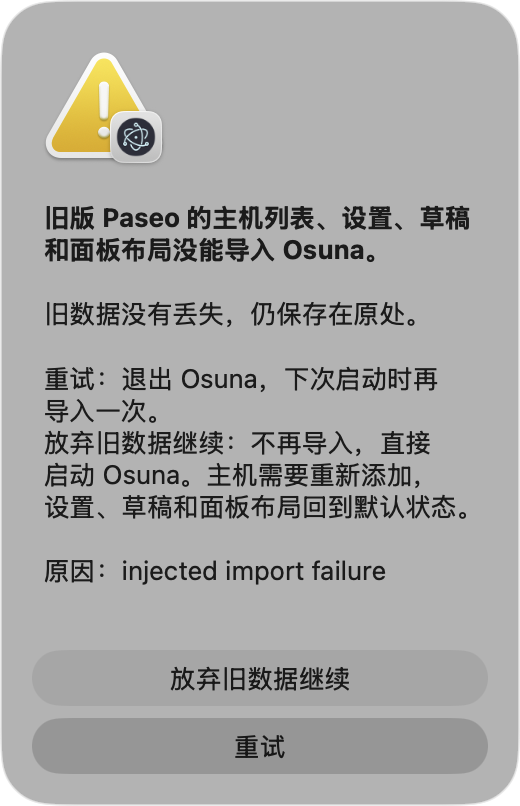
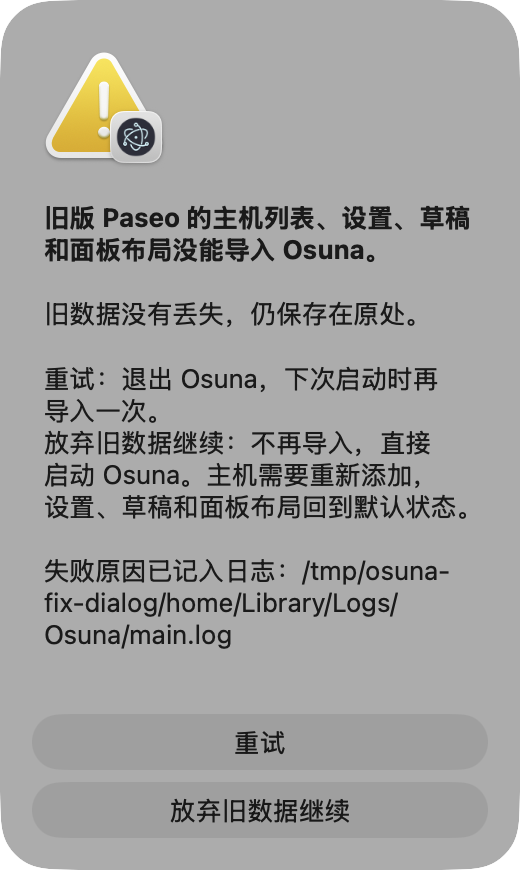
fix(desktop): 导入失败对话框「重试」排首位并为默认，原因只进日志 [V(c)3][SB-2][SB-3][SB-4][SA-3]
- 对话框：把「重试」同时设成取消键会让 macOS 把它排到最后并去掉默认高亮，所以两个按钮都不当
  取消键；没点任何按钮就关掉对话框时按「重试」处理。不设 cancelId 不行：Electron 会自己挑
  「放弃旧数据继续」当取消键
- 界面文案与调试串分开：英文的失败原因在弹框之前写进日志，对话框只用中文告诉用户日志在哪
- page-scripts.ts 的导出脚本与 e2e 里的期望值构造拆成具名小函数，嵌套不超过三层
- snapshot.ts 的内联对象数组类型命名
- 安卓工作流与 docs/android.md 里"先填一个保守值、以后再收紧"的含糊注释删掉
- 截图 desktop-renderer-origin-import-dialog-failed-macos-520x806.png 重新取图（文件名不变，
  多了一行日志路径，实际尺寸 520x870）

diff --git a/packages/desktop/src/settings/renderer-origin-migration/page-scripts.ts b/packages/desktop/src/settings/renderer-origin-migration/page-scripts.ts
@@ -2,6 +2,7 @@
 import type {
   OriginStorageDatabase,
   OriginStorageObjectStore,
+  OriginStorageRecord,
   OriginStorageSnapshot,
 } from "./snapshot.js";
 
@@ -78,48 +79,54 @@ async function exportOriginStorage(): Promise<OriginStorageSnapshot> {
 
   const snapshot: OriginStorageSnapshot = { localStorage: [], databases: [], skippedRecords: [] };
 
+  async function exportObjectStore(
+    database: IDBDatabase,
+    storeName: string,
+  ): Promise<OriginStorageObjectStore> {
+    const store = database.transaction(storeName, "readonly").objectStore(storeName);
+    const indexes = Array.from(store.indexNames, (indexName) => {
+      const { keyPath, unique, multiEntry } = store.index(indexName);
+      return { name: indexName, keyPath, unique, multiEntry };
+    });
+    const [keys, values] = await Promise.all([
+      settled(store.getAllKeys()),
+      settled(store.getAll()),
+    ]);
+    const records: OriginStorageRecord[] = [];
+    keys.forEach((key, position) => {
+      const record = { key, value: values[position] };
+      const crossesIpc = detachBlobs(record.value, (next) => {
+        record.value = next;
+      });
+      if (crossesIpc) records.push(record);
+      else snapshot.skippedRecords.push({ database: database.name, store: storeName, key });
+    });
+    return {
+      name: storeName,
+      keyPath: store.keyPath,
+      autoIncrement: store.autoIncrement,
+      indexes,
+      records,
+    };
+  }
+
+  async function exportDatabase(name: string): Promise<OriginStorageDatabase> {
+    const database = await settled(indexedDB.open(name));
+    const stores: OriginStorageObjectStore[] = [];
+    for (const storeName of Array.from(database.objectStoreNames)) {
+      stores.push(await exportObjectStore(database, storeName));
+    }
+    database.close();
+    return { name, version: database.version, stores };
+  }
+
   for (let index = 0; index < localStorage.length; index += 1) {
     const key = localStorage.key(index);
     if (key !== null) snapshot.localStorage.push([key, localStorage.getItem(key) ?? ""]);
   }
 
   for (const { name } of await indexedDB.databases()) {
-    if (name === undefined) continue;
-    const database = await settled(indexedDB.open(name));
-    const exported: OriginStorageDatabase = {
-      name,
-      version: database.version,
-      stores: [],
-    };
-    for (const storeName of Array.from(database.objectStoreNames)) {
-      const store = database.transaction(storeName, "readonly").objectStore(storeName);
-      const indexes = Array.from(store.indexNames, (indexName) => {
-        const { keyPath, unique, multiEntry } = store.index(indexName);
-        return { name: indexName, keyPath, unique, multiEntry };
-      });
-      const [keys, values] = await Promise.all([
-        settled(store.getAllKeys()),
-        settled(store.getAll()),
-      ]);
-      const records: OriginStorageObjectStore["records"] = [];
-      keys.forEach((key, position) => {
-        const record = { key, value: values[position] };
-        const crossesIpc = detachBlobs(record.value, (next) => {
-          record.value = next;
-        });
-        if (crossesIpc) records.push(record);
-        else snapshot.skippedRecords.push({ database: name, store: storeName, key });
-      });
-      exported.stores.push({
-        name: storeName,
-        keyPath: store.keyPath,
-        autoIncrement: store.autoIncrement,
-        indexes,
-        records,
-      });
-    }
-    database.close();
-    snapshot.databases.push(exported);
+    if (name !== undefined) snapshot.databases.push(await exportDatabase(name));
   }
 
   await Promise.all(blobReads);

diff --git a/packages/desktop/src/settings/renderer-origin-migration/electron.ts b/packages/desktop/src/settings/renderer-origin-migration/electron.ts
@@ -16,6 +16,7 @@ const LEGACY_SCHEME = "paseo";
 const APP_SCHEME = "osuna";
 const APP_ORIGIN = `${APP_SCHEME}://app`;
 const PULL_CHANNEL = "osuna:renderer-origin-migration:pull";
+const NO_CANCEL_BUTTON = -1;
 const EXPORT_TIMEOUT_MS = 30_000;
 const IMPORT_TIMEOUT_MS = 60_000;
 
@@ -146,24 +147,32 @@ export function createElectronRendererOriginPorts(input: {
     },
 
     async askAfterFailure(error) {
-      const { title, message, detail, options } = describeRendererOriginImportFailure(error);
+      // 原因先落日志：对话框只告诉用户去哪里看，用户选完之前进程可能就被杀掉了。
+      log.error("[renderer-origin-migration] import failed", error);
+      const { title, message, detail, options, defaultChoice } =
+        describeRendererOriginImportFailure({ logPath: log.transports.file.getFile().path });
+      const retryIndex = options.findIndex((option) => option.choice === defaultChoice);
       const { response } = await dialog.showMessageBox({
         type: "error",
         title,
         message,
         detail,
         buttons: options.map((option) => option.label),
-        // 直接关掉对话框等同「重试」：不替用户做放弃数据的决定。
-        defaultId: 0,
-        cancelId: 0,
+        defaultId: retryIndex,
+        // 两个按钮都不当取消键。把「重试」设成取消键的话 macOS 会把它排到最后并去掉默认高亮；
+        // 不设的话 Electron 自己会挑「放弃旧数据继续」当取消键，Esc 就成了放弃数据。
+        cancelId: NO_CANCEL_BUTTON,
         noLink: true,
       });
+      // 没点任何按钮就关掉对话框（Windows / Linux 的关闭按钮）等同「重试」：不替用户做放弃数据的决定。
+      const pickedAButton = response >= 0 && response < options.length;
+      if (!pickedAButton) return defaultChoice;
       return options[response].choice;
     },
   };
 }
 
-// 成功静默：只留一条 info。失败时用户已经在对话框里做了选择，这里只负责记下来。
+// 成功静默：只留一条 info。失败的原因在弹对话框之前已经记下，这里只记用户选了什么。
 export async function runLegacyRendererOriginMigration(
   marker: RendererOriginMigrationPorts["marker"],
 ): Promise<RendererOriginMigrationOutcome> {
@@ -181,9 +190,9 @@ export async function runLegacyRendererOriginMigration(
       log.warn("[renderer-origin-migration] skipped records that cannot cross IPC", skippedRecords);
     }
   } else if (outcome.kind === "abandoned") {
-    log.warn("[renderer-origin-migration] import failed, legacy data abandoned", outcome.error);
+    log.warn("[renderer-origin-migration] user abandoned the legacy renderer storage");
   } else if (outcome.kind === "retry-on-next-launch") {
-    log.error("[renderer-origin-migration] import failed, retrying next launch", outcome.error);
+    log.info("[renderer-origin-migration] user chose to retry the import on the next launch");
   }
   return outcome;
 }

diff --git a/packages/desktop/src/settings/renderer-origin-migration/index.ts b/packages/desktop/src/settings/renderer-origin-migration/index.ts
@@ -1,6 +1,10 @@
 // COMPAT(paseoDataMigration): added in v1.0.0, remove after 2027-10-09 or in 2.0.0, whichever first.
 import type { DesktopSettingsStore } from "../desktop-settings.js";
-import { isEmptySnapshot, type OriginStorageSnapshot } from "./snapshot.js";
+import {
+  isEmptySnapshot,
+  type OriginStorageSkippedRecord,
+  type OriginStorageSnapshot,
+} from "./snapshot.js";
 import { renameLegacySnapshot } from "./storage-names.js";
 
 // 0.14.x 的渲染器从 paseo://app 加载，1.0.0 从 osuna://app 加载。Chromium 按 origin 隔离存储，
@@ -25,7 +29,7 @@ export interface RendererOriginImported {
   localStorageKeys: number;
   databases: number;
   records: number;
-  skippedRecords: OriginStorageSnapshot["skippedRecords"];
+  skippedRecords: OriginStorageSkippedRecord[];
 }
 
 export type RendererOriginMigrationOutcome =
@@ -90,12 +94,18 @@ export interface RendererOriginImportFailureDialog {
   detail: string;
   // 顺序即对话框里按钮的顺序。
   options: RendererOriginImportFailureOption[];
+  // 回车选中的按钮。不可逆的那个选项不能是默认。
+  defaultChoice: RendererOriginImportChoice;
+}
+
+export interface RendererOriginImportFailureContext {
+  // 失败的具体原因是给排查用的英文调试信息，只进日志；对话框告诉用户去哪里看。
+  logPath: string;
 }
 
 export function describeRendererOriginImportFailure(
-  error: unknown,
+  context: RendererOriginImportFailureContext,
 ): RendererOriginImportFailureDialog {
-  const cause = error instanceof Error ? error.message : String(error);
   return {
     title: "Osuna 无法导入旧版数据",
     message: "旧版 Paseo 的主机列表、设置、草稿和面板布局没能导入 Osuna。",
@@ -105,11 +115,12 @@ export function describeRendererOriginImportFailure(
       "重试：退出 Osuna，下次启动时再导入一次。",
       "放弃旧数据继续：不再导入，直接启动 Osuna。主机需要重新添加，设置、草稿和面板布局回到默认状态。",
       "",
-      `原因：${cause}`,
+      `失败原因已记入日志：${context.logPath}`,
     ].join("\n"),
     options: [
       { choice: "retry", label: "重试" },
       { choice: "abandon", label: "放弃旧数据继续" },
     ],
+    defaultChoice: "retry",
   };
 }

diff --git a/packages/desktop/src/settings/renderer-origin-migration/index.test.ts b/packages/desktop/src/settings/renderer-origin-migration/index.test.ts
@@ -178,9 +178,9 @@ describe("migrateLegacyRendererOrigin", () => {
 });
 
 describe("describeRendererOriginImportFailure", () => {
-  it("offers retry and abandon in Chinese and says the old data is still there", () => {
+  it("offers retry first, in Chinese, and sends the user to the log for the cause", () => {
     expect(
-      describeRendererOriginImportFailure(new Error("Exporting paseo://app timed out after 30s")),
+      describeRendererOriginImportFailure({ logPath: "/Users/me/Library/Logs/Osuna/main.log" }),
     ).toEqual({
       title: "Osuna 无法导入旧版数据",
       message: "旧版 Paseo 的主机列表、设置、草稿和面板布局没能导入 Osuna。",
@@ -190,12 +190,13 @@ describe("describeRendererOriginImportFailure", () => {
         "重试：退出 Osuna，下次启动时再导入一次。",
         "放弃旧数据继续：不再导入，直接启动 Osuna。主机需要重新添加，设置、草稿和面板布局回到默认状态。",
         "",
-        "原因：Exporting paseo://app timed out after 30s",
+        "失败原因已记入日志：/Users/me/Library/Logs/Osuna/main.log",
       ].join("\n"),
       options: [
         { choice: "retry", label: "重试" },
         { choice: "abandon", label: "放弃旧数据继续" },
       ],
+      defaultChoice: "retry",
     });
   });
 });

diff --git a/packages/desktop/src/settings/renderer-origin-migration/snapshot.ts b/packages/desktop/src/settings/renderer-origin-migration/snapshot.ts
@@ -6,7 +6,13 @@ export interface OriginStorageSnapshot {
   localStorage: Array<[key: string, value: string]>;
   databases: OriginStorageDatabase[];
   // 含有过不了 IPC 的宿主对象（CryptoKey、文件句柄等）而被跳过的记录。
-  skippedRecords: Array<{ database: string; store: string; key: IDBValidKey }>;
+  skippedRecords: OriginStorageSkippedRecord[];
+}
+
+export interface OriginStorageSkippedRecord {
+  database: string;
+  store: string;
+  key: IDBValidKey;
 }
 
 export interface OriginStorageDatabase {
@@ -20,7 +26,12 @@ export interface OriginStorageObjectStore {
   keyPath: string | string[] | null;
   autoIncrement: boolean;
   indexes: OriginStorageIndex[];
-  records: Array<{ key: IDBValidKey; value: unknown }>;
+  records: OriginStorageRecord[];
+}
+
+export interface OriginStorageRecord {
+  key: IDBValidKey;
+  value: unknown;
 }
 
 export interface OriginStorageIndex {

diff --git a/docs/android.md b/docs/android.md
@@ -163,4 +163,3 @@ A GitHub secret that does not exist expands to an empty string, which would prod
 - **Memory.** The runner has 4 vCPU and 16 GB. Release builds compile the native ABIs and run Hermes bundling in the same Gradle invocation, and Hermes can be killed with exit code 137 even when Gradle's own heap is correctly sized. The workflow passes `--no-daemon --max-workers=2`; drop to `--max-workers=1` if 137 shows up.
 - **Disk.** The runner guarantees 14 GB free, so the job deletes preinstalled toolchains it does not use before installing dependencies.
 - **NDK.** React Native pins an NDK version the runner image may not ship. The Android Gradle Plugin downloads it during the build.
-- **Timeout.** `timeout-minutes: 90` is an untested first value. Tighten it once a run has recorded the real duration.
